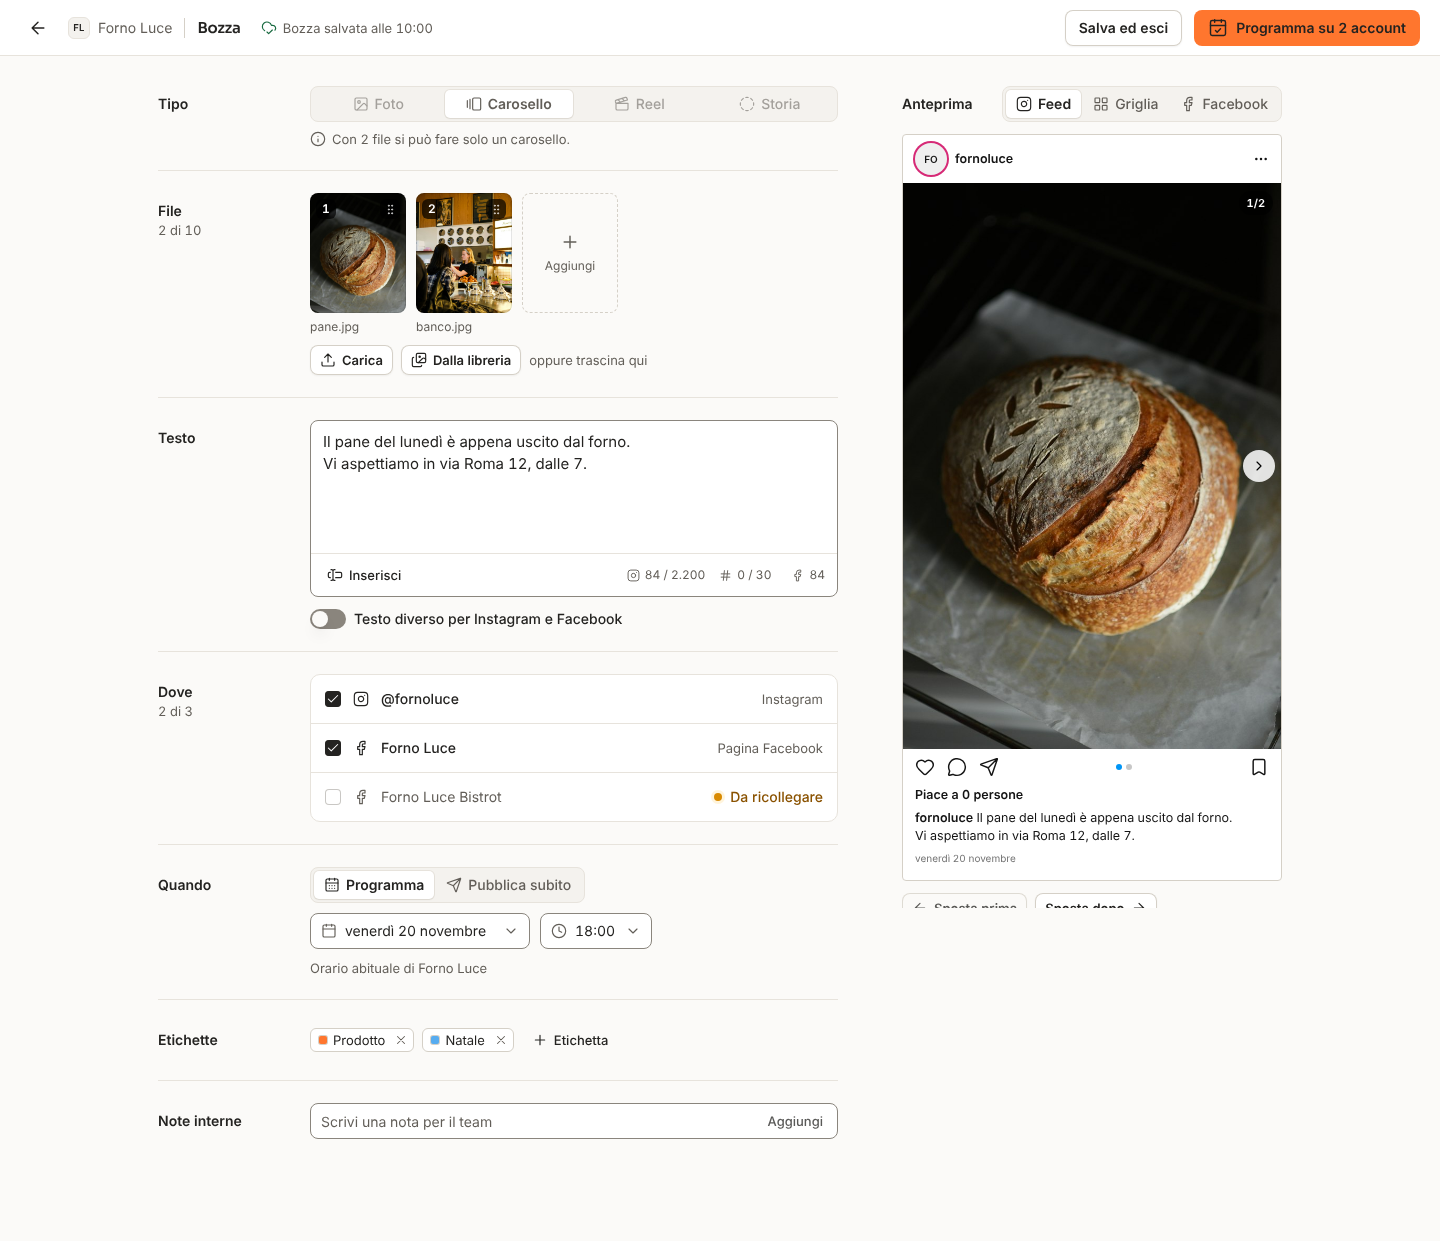
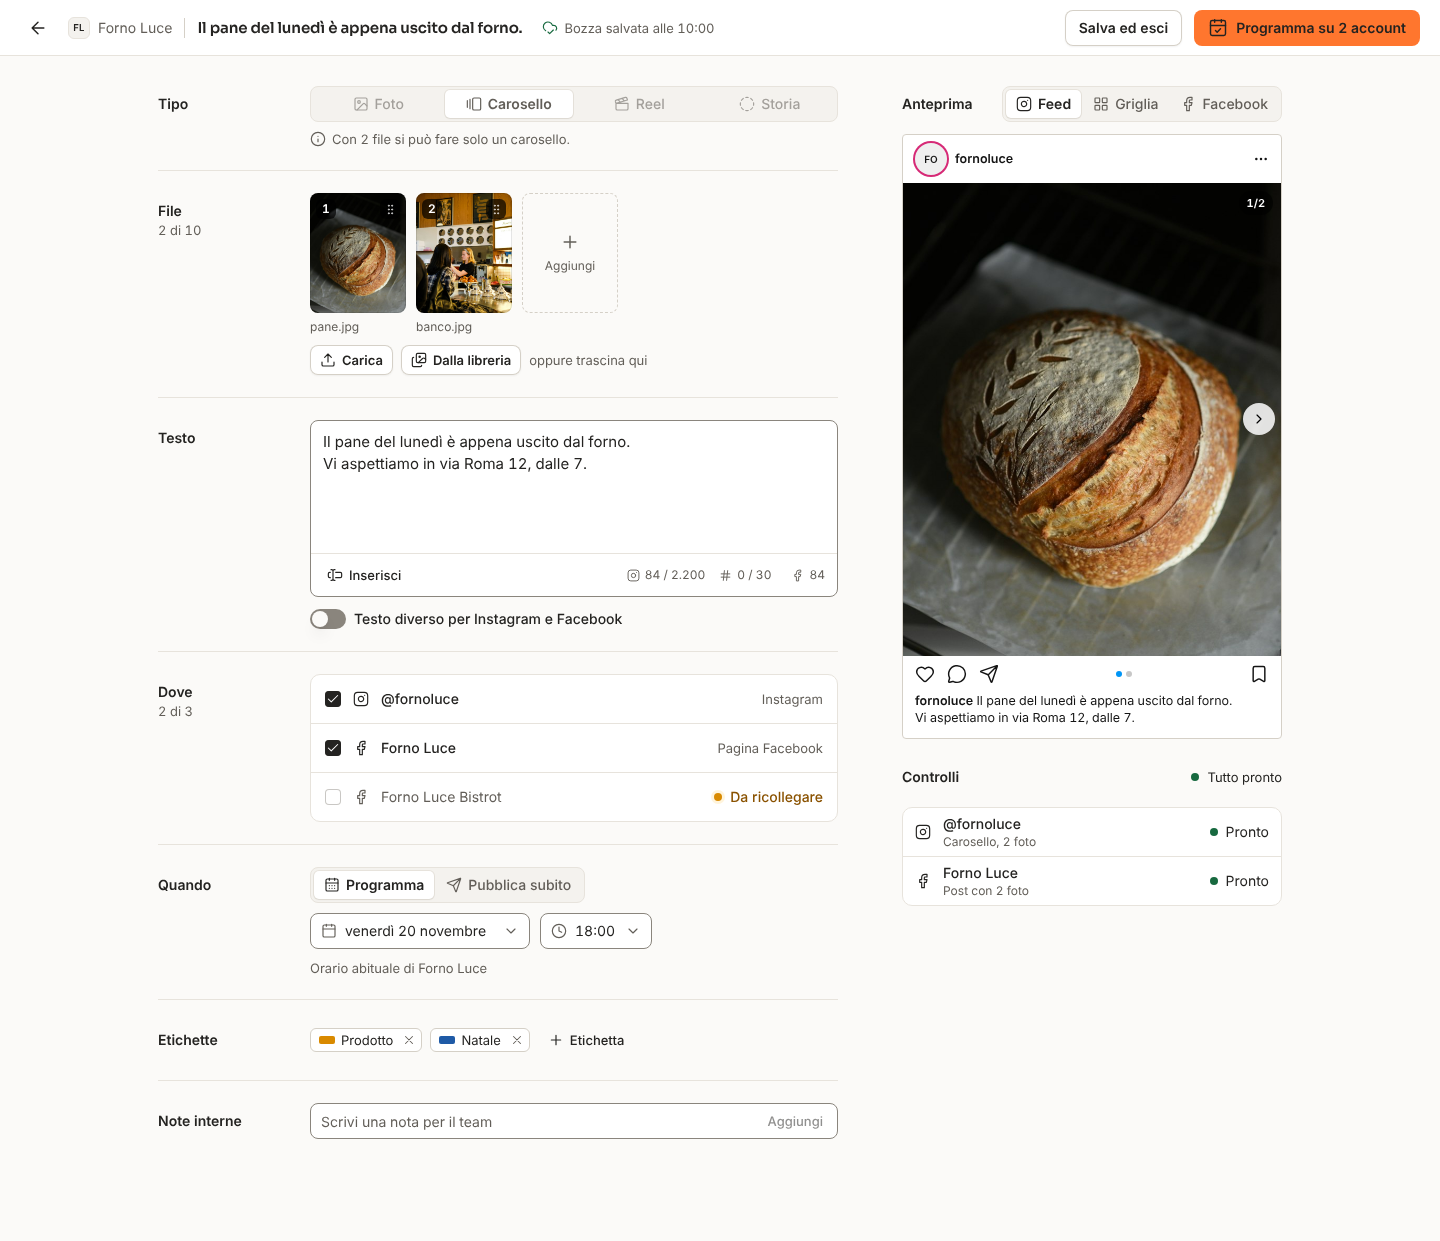
fix(design): correzioni della revisione del codice di R10
- riga del fuso: un Manager che non legge il fuso dell'agenzia la vede sempre
- «Sostituisci»: solo video, scelta annullata se il selettore si chiude,
  un caricamento tolto non rientra nel post
- segno delle etichette 8×8: inline-block collideva con il token --spacing-block

diff --git a/apps/web/app/composables/usePostEditor.ts b/apps/web/app/composables/usePostEditor.ts
@@ -329,8 +329,18 @@ export function usePostEditor(opts: {
   }
   const refused = ref<UploadItem[]>([])
 
+  /** Uploads taken out of the post that may still finish: they must not come back in. */
+  const dropped = new Set<string>()
+  function dropUpload(item: UploadItem | null) {
+    if (!item || item.media) return
+    dropped.add(item.key)
+    void uploads.cancel(item)
+  }
+
   /** A file of this editor reached the library. */
   function attached(media: MediaDto) {
+    const gone = uploads.items.value.find((i) => dropped.has(i.key) && i.media?.id === media.id)
+    if (gone) return
     if (!alive) {
       attachLater(media)
       return
@@ -391,13 +401,11 @@ export function usePostEditor(opts: {
 
   /**
    * «Sostituisci» of a reel's only video (screen 09, B4): the new file takes the place of every
-   * file of the post, and the type stays. A file refused leaves the post as it was.
+   * file of the post, and the type stays. A file refused by the browser's checks leaves the post
+   * as it was; one that fails later shows its error, and the old video is still in the library.
    */
   function dropEntries() {
-    for (const x of entries.value) {
-      const item = uploadItem(x)
-      if (item && !item.media) void uploads.cancel(item)
-    }
+    for (const x of entries.value) dropUpload(uploadItem(x))
     entries.value = []
   }
   async function replaceFiles(list: readonly File[]) {
@@ -441,9 +449,8 @@ export function usePostEditor(opts: {
   function removeEntry(key: string) {
     const e = entries.value.find((x) => x.key === key)
     if (!e) return
-    const item = uploadItem(e)
     // a file still uploading stops; one already in the library stays there
-    if (item && !item.media) void uploads.cancel(item)
+    dropUpload(uploadItem(e))
     entries.value = entries.value.filter((x) => x.key !== key)
     followFiles()
     touched()

diff --git a/apps/web/tests/e2e/post-content-settings.spec.ts b/apps/web/tests/e2e/post-content-settings.spec.ts
@@ -75,13 +75,30 @@ test('a Manager sets up labels, a template and a group; an Editor uses them and 
   await octx.addCookies(await page.context().cookies())
   const o = await octx.newPage()
   await ownAddress(o)
+  const settingsRead = o.waitForResponse((r) => r.url().endsWith('/settings'))
   await o.goto(`/${org}/spazi/${client.slug}/contenuti`)
+  await settingsRead
   await expect(o.getByRole('combobox', { name: 'I nuovi post partono da' })).toBeVisible()
   await expect(o.getByText(/ora di Roma|fuso/)).toHaveCount(0)
   await octx.close()
+  // from London the same Owner is told the times are Rome's
+  const lctx = await browser.newContext({
+    baseURL: process.env.E2E_BASE_URL ?? '',
+    timezoneId: 'Europe/London',
+  })
+  await lctx.addCookies(await page.context().cookies())
+  const l = await lctx.newPage()
+  await ownAddress(l)
+  await l.goto(`/${org}/spazi/${client.slug}/contenuti`)
+  await expect(l.getByText(/ora di Roma/)).toBeVisible()
+  await lctx.close()
 
-  // ---- the Manager, in the client's content settings
-  const mctx = await browser.newContext({ baseURL: process.env.E2E_BASE_URL ?? '' })
+  // ---- the Manager, in the client's content settings (from Rome: the agency's zone is unknown
+  // to them, so the line stays)
+  const mctx = await browser.newContext({
+    baseURL: process.env.E2E_BASE_URL ?? '',
+    timezoneId: 'Europe/Rome',
+  })
   const m = await mctx.newPage()
   await ownAddress(m)
   await signIn(m.request, manager)

diff --git a/apps/web/app/pages/[org]/spazi/[slug]/contenuti.vue b/apps/web/app/pages/[org]/spazi/[slug]/contenuti.vue
@@ -86,7 +86,8 @@ const timeItems = computed(() => {
 })
 // the agency's zone, for whoever may read the agency's settings (Owner and Admin); a Manager
 // cannot, and is told «the agency's zone» rather than a zone that may be wrong
-const zone = ref<string | null>(null)
+// (undefined while it is read, null when it cannot be read)
+const zone = ref<string | null | undefined>(undefined)
 onMounted(async () => {
   try {
     zone.value = (await call<{ timezone: string }>('GET', org.api('/settings'))).timezone
@@ -105,8 +106,8 @@ onMounted(() => {
   }
 })
 const zoneText = computed(() => {
-  if (own.value === undefined || (zone.value ?? 'Europe/Rome') === own.value) return null
-  if (!zone.value) return t('contentSettings.time.agency')
+  if (own.value === undefined || zone.value === undefined || zone.value === own.value) return null
+  if (zone.value === null) return t('contentSettings.time.agency')
   if (zone.value === 'Europe/Rome') return t('contentSettings.time.rome')
   return t('contentSettings.time.zone', { zone: zone.value.replaceAll('_', ' ') })
 })

diff --git a/apps/web/app/components/post/PostMediaList.vue b/apps/web/app/components/post/PostMediaList.vue
@@ -89,7 +89,16 @@ const replaceItems = computed<DropdownMenuItem[]>(() => [
     },
   },
 ])
-defineExpose({ choose: () => picker.value?.click() })
+defineExpose({
+  choose: () => {
+    replacing.value = false
+    picker.value?.click()
+  },
+})
+// a picker closed without a choice ends «Sostituisci»
+watch(picking, (open) => {
+  if (!open) replacing.value = false
+})
 
 const MAX = META_LIMITS.instagramCarouselMaxItems.value
 /** Under the label: «2 di 10», or «1 video» for a reel's only file. */
@@ -391,7 +400,11 @@ function release() {
       ref="picker"
       type="file"
       multiple
-      accept="image/jpeg,image/png,image/webp,image/heic,image/heif,.heic,.heif,video/mp4,video/quicktime,.mov"
+      :accept="
+        replacing
+          ? 'video/mp4,video/quicktime,.mov'
+          : 'image/jpeg,image/png,image/webp,image/heic,image/heif,.heic,.heif,video/mp4,video/quicktime,.mov'
+      "
       class="hidden"
       data-post-input
       @change="picked"

diff --git a/apps/web/app/pages/[org]/spazi/[slug].vue b/apps/web/app/pages/[org]/spazi/[slug].vue
@@ -77,7 +77,7 @@ const bare = computed(() => route.meta['editor'] === true)
             <span v-if="client">{{ client.name }}</span>
             <span
               v-else
-              class="inline-block h-7 w-48 animate-pulse rounded-md bg-(--app-surface-sunken)"
+              class="inline-flex h-7 w-48 animate-pulse rounded-md bg-(--app-surface-sunken)"
               ><span class="sr-only">{{ $t('client.title') }}</span></span
             >
           </h1>

diff --git a/apps/web/app/components/content/LabelDot.vue b/apps/web/app/components/content/LabelDot.vue
@@ -8,7 +8,7 @@ const colorOf = useLabelColor()
 
 <template>
   <span
-    class="inline-block size-2 shrink-0 rounded-[2px]"
+    class="inline-flex size-2 shrink-0 rounded-[2px]"
     :style="{ background: colorOf(props.color) }"
     aria-hidden="true"
   />

diff --git a/docs/decisioni-aperte.md b/docs/decisioni-aperte.md
@@ -676,7 +676,7 @@ Esiti della prova del 19 novembre 2026 sulla VPS (nelle consegne della tappa 6, 
   4. A6: il selettore del cliente c'è anche nelle impostazioni personali (chiude D-87.10).
   5. B1: le etichette hanno il quadratino di 8 px con l'accento scuro di ogni tema (chiaro nello scuro), senza bordo; il tema Feedway si chiama «Ambra» nelle etichette e il suo segno è ambra, non l'arancio del marchio.
   6. B2: le zone coperte del reel e della storia partono spente; il pannello non ricorda la scelta (B2 b, non fatto).
-  7. B4: in un reel con il suo video «Aggiungi» lascia il posto a «Sostituisci» (Carica o Dalla libreria): il nuovo file entra, e il vecchio esce solo se il nuovo è accettato. «Convertito in MP4» compare quando il file caricato non era un .mp4. Il peso («38,8 MB» della `09`) non si scrive: il contratto del file non lo porta. La frase sotto «Mostra anche nel feed» è «Anche nella griglia del profilo».
+  7. B4: in un reel con il suo video «Aggiungi» lascia il posto a «Sostituisci» (Carica o Dalla libreria): il nuovo file entra, e il vecchio esce solo se il nuovo passa i controlli del browser; se poi il caricamento non riesce, il post mostra l'errore e il video vecchio resta nella libreria («Sostituisci» → «Dalla libreria»). Da «Sostituisci» si sceglie solo un video. «Convertito in MP4» compare quando il file caricato non era un .mp4. Il peso («38,8 MB» della `09`) non si scrive: il contratto del file non lo porta. La frase sotto «Mostra anche nel feed» è «Anche nella griglia del profilo».
   8. B6: il controllo del reel non verticale dice «Il video non ha la forma di un reel / Un reel è verticale (9:16), questo video è {larghezza}×{altezza}. Scegli come pubblicarlo.», con «Così com'è, senza modifiche», «Intero, con le bande sopra e sotto» e «Ritagliato al centro, a tutto schermo». Il resto dei controlli non cambia.
   9. B7: con il dettaglio del file aperto la libreria si restringe di quanto è largo il dettaglio (da 1024 px).
   10. B9: il registro scrive la data del post programmato, il ruolo di chi è invitato o cambia ruolo, e cosa è cambiato nei contenuti (etichette, modelli, gruppi, orario). Il post programmato salva ora la sua data nel registro (`data.scheduledAt`); le voci di prima restano con la frase corta.
@@ -684,5 +684,6 @@ Esiti della prova del 19 novembre 2026 sulla VPS (nelle consegne della tappa 6, 
   12. B12: il titolo dell'editor è la prima riga del testo, «Nuovo post» se è vuoto; «Post programmato» e «Post annullato» restano. Il titolo della scheda del browser resta «Modifica il post».
   13. C1: «Prima configurazione» in «Oggi» è una riga neutra (icona, frase, «Riprendi»). C2: «Salva» di Generali, «Carica file» della libreria del cliente, «Aggiungi» delle persone del cliente, «Scarica i miei dati», «Salva e verifica» dell'app Meta, i passi della prima configurazione e «Aggiungi account» hanno il contorno: l'arancio resta a «Nuovo post» (le misure di fedeltà lo provano su queste pagine).
   14. Stati: «Oggi» in errore usa la riga di `LoadFailed` con l'icona rossa; «Non siamo riusciti a leggere i post.»; Registro e «Chi ci lavora» in errore dicono cosa non si legge, senza il codice che non si vedeva; i Contenuti in errore nascondono le sezioni (niente «0» falsi) e dopo «Riprova» mostrano gli scheletri; «Non hai ancora clienti con una libreria.»
+- **Trovato in R10:** il token `--spacing-block` fa generare a Tailwind una classe `inline-block` che fissa la larghezza a 1rem, così ogni `inline-block` del pannello era largo 16 px (il segno delle etichette era 16×8). Le due occorrenze ora usano `inline-flex`; rinominare il token resta da fare nel task che aggiorna `DESIGN.md`.
 - **Restano:** B2 (b); il peso del file in B4; piccole differenze della `08`/`17` («Aggiungi» della nota dentro il campo, la × dell'etichetta al passaggio, le schede del cliente che scorrono sul telefono); «Profili» del cliente in errore fuori dalla tavola degli stati; «Per quale cliente?» che salta di 4 px (C4); B11, B13, C3, C4 e `/agenzie` nel task a parte. Non verificati Safari, Firefox e Meta vera.
 - **Stato:** fatte in R10 come proposta della revisione, provvisorie; Matteo può cambiarle o togliere una correzione.
